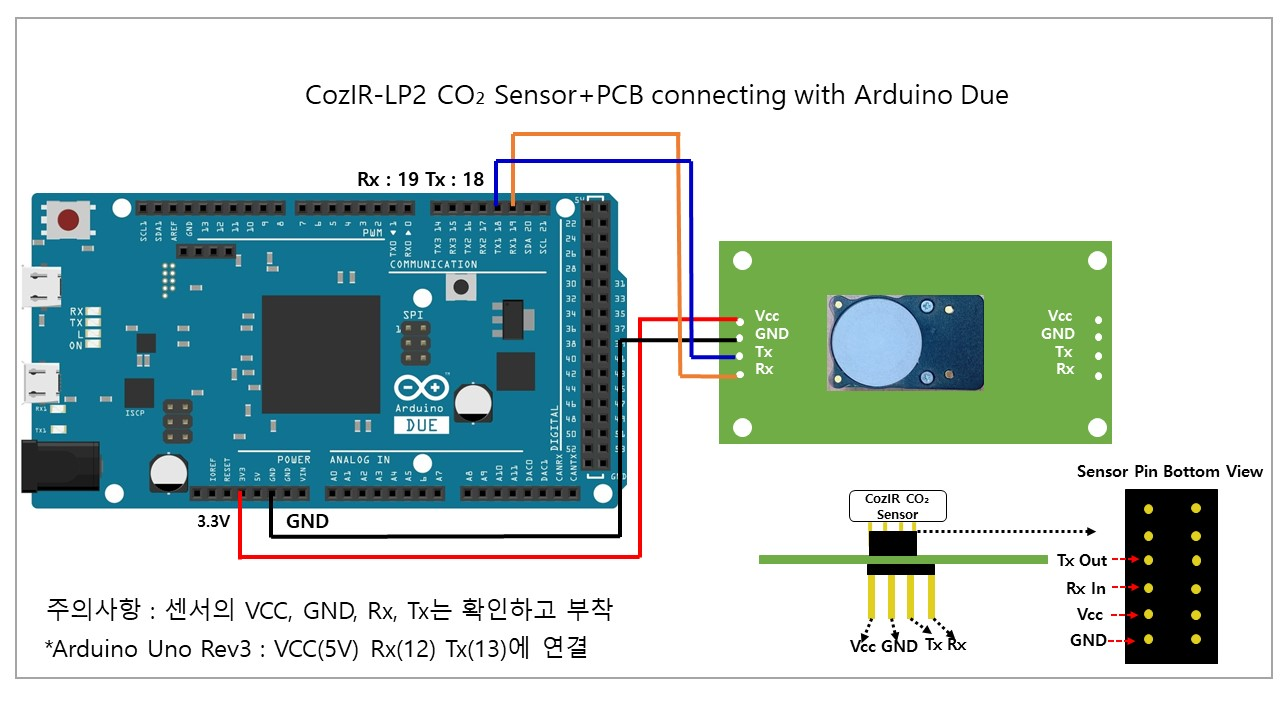
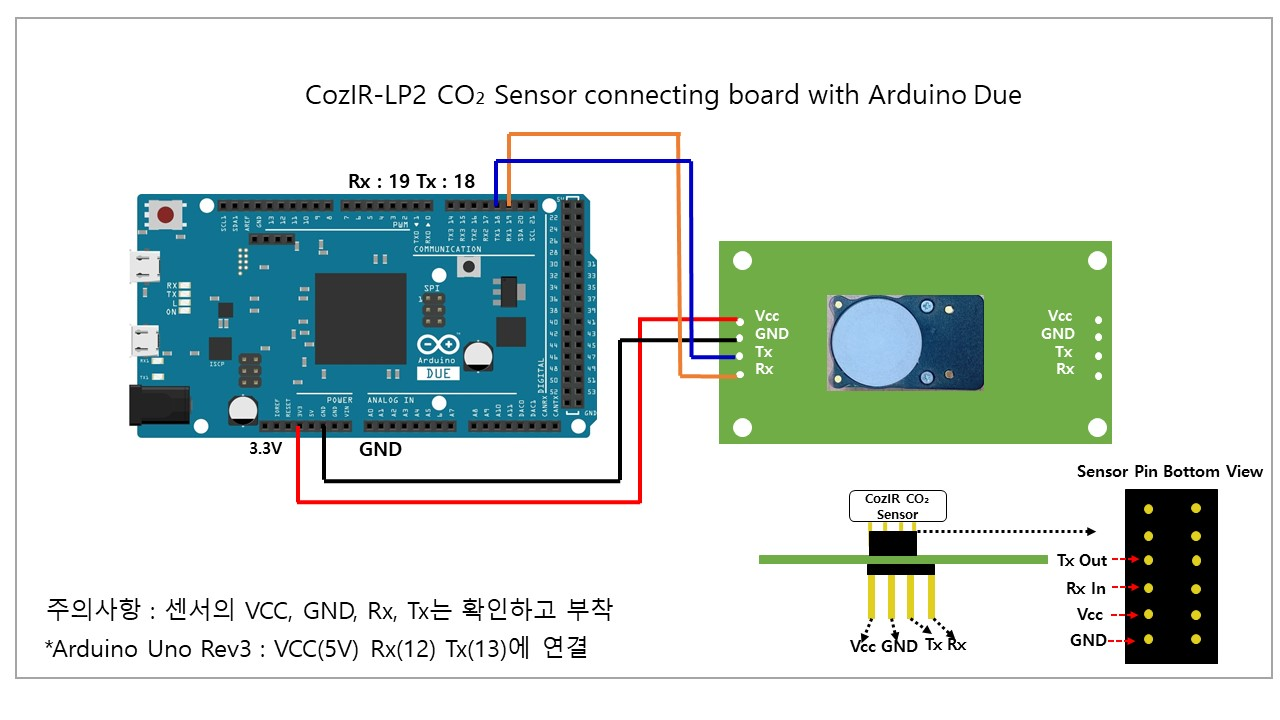
GitBook: [#248] No subject

Changed region(s): [[0.0, 0.1833, 0.5, 0.7944], [0.4375, 0.1222, 0.8125, 0.1528]]

diff --git a/product-document/gss/cozir-lp2.md b/product-document/gss/cozir-lp2.md
@@ -10,18 +10,18 @@
 
 #### 2)제품 사양
 
-| 항목         | 내용                                                                                         |
-| ---------- | ------------------------------------------------------------------------------------------ |
-| 측정 범위      | <p>Type 1) 0-2000ppm<br>Type 2) 0-5000ppm<br>Type 3) 0-10,000ppm<br>최대 10,000ppm 측정 가능</p> |
-| 센서 내부      | Solid-State, 가열된 필라멘트 없음                                                                   |
-| 통신 방식      | UART 또는 I²C                                                                                |
-| 전원 전압      | 3.25-5.5V                                                                                  |
-| 전력 소비량     | 3.5mW                                                                                      |
-| 센서 치수 및 무게 | <p>L x W x H(31mm x 19.5mm x 8.7mm)<br>Weight(2.5g)</p>                                    |
-| 센서 내구성     | 진동 및 충격에 강하고 비가열성                                                                          |
-| 센서 교정      | 자동 교정 기능 내장                                                                                |
-| 센서 수명      | 15년                                                                                        |
-| 센서 적용 어플리케이션     | <p>IAQ(실내공기질)<br>HVAC(공기조화기술)<br>BMS(건물 관리 시스템)<br>계측, 농업, 자동차, 항공우주</p>                   |
+| 항목           | 내용                                                                                         |
+| ------------ | ------------------------------------------------------------------------------------------ |
+| 측정 범위        | <p>Type 1) 0-2000ppm<br>Type 2) 0-5000ppm<br>Type 3) 0-10,000ppm<br>최대 10,000ppm 측정 가능</p> |
+| 센서 내부        | Solid-State, 가열된 필라멘트 없음                                                                   |
+| 통신 방식        | UART 또는 I²C                                                                                |
+| 전원 전압        | 3.25-5.5V                                                                                  |
+| 전력 소비량       | 3.5mW                                                                                      |
+| 센서 치수 및 무게   | <p>L x W x H(31mm x 19.5mm x 8.7mm)<br>Weight(2.5g)</p>                                    |
+| 센서 내구성       | 진동 및 충격에 강하고 비가열성                                                                          |
+| 센서 교정        | 자동 교정 기능 내장                                                                                |
+| 센서 수명        | 15년                                                                                        |
+| 센서 적용 어플리케이션 | <p>IAQ(실내공기질)<br>HVAC(공기조화기술)<br>BMS(건물 관리 시스템)<br>계측, 농업, 자동차, 항공우주</p>                   |
 
 #### 3)제품 크기
 
@@ -45,8 +45,7 @@
 
 #### 2)환경 구축
 
-![](<../../.gitbook/assets/CozIR LP2 Sensor with connecting arduino due (1).jpg>)
-
+![](<../../.gitbook/assets/cozir lp2 Sensor with connecting arduino due 2.jpg>)
 
 ## 3.예제 Code
 
